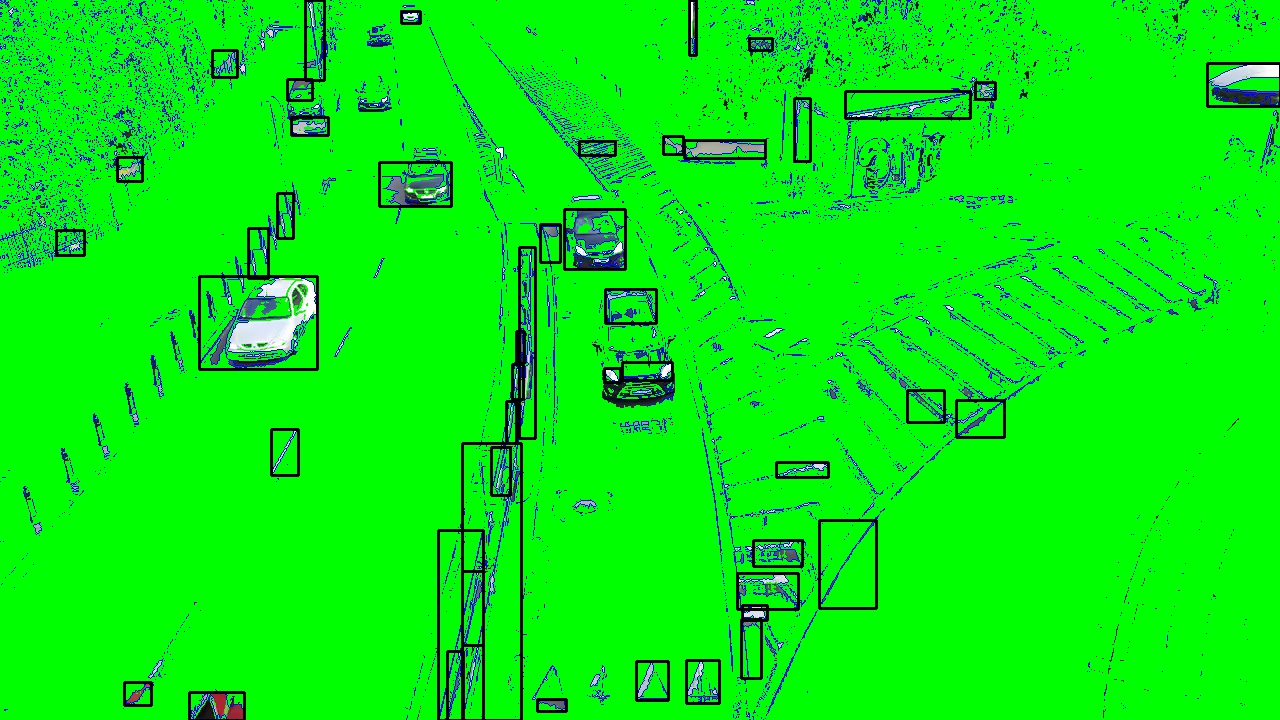
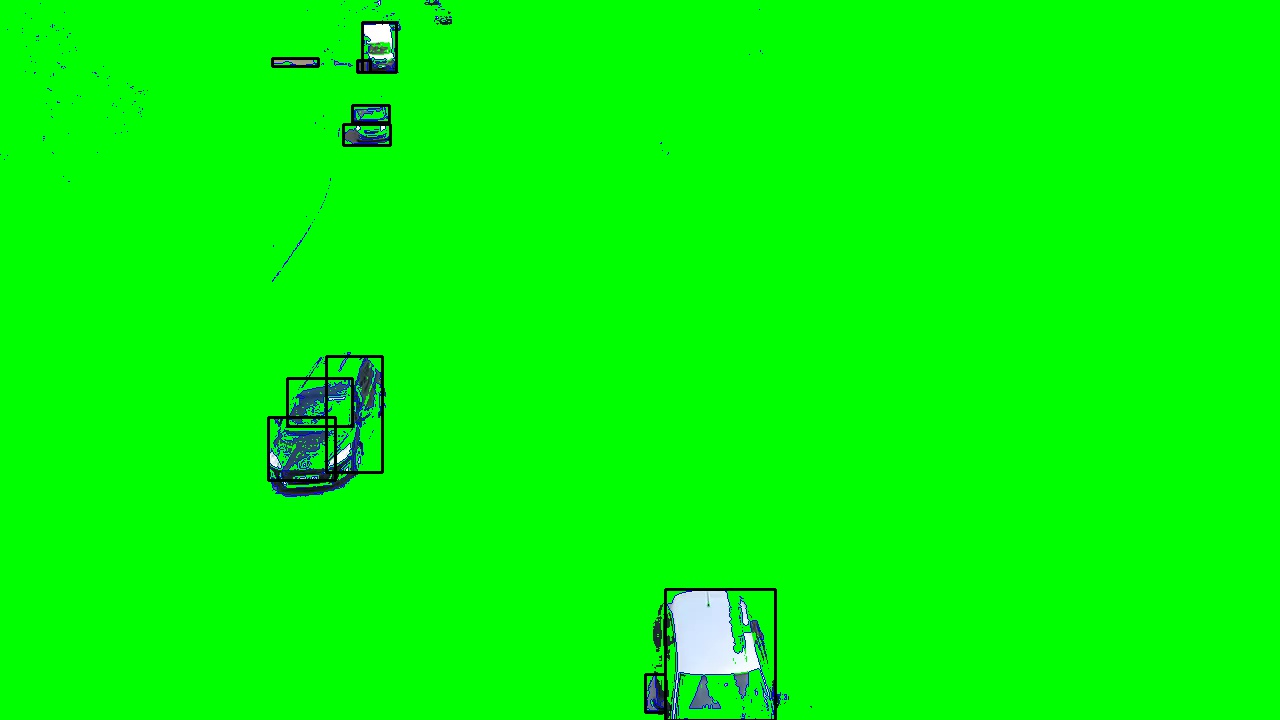
Adding static_background.jpg. Discovered that using video from 0:15 to end gives better results.

diff --git a/project.py b/project.py
@@ -90,8 +90,8 @@ video = 'traffic.mp4'
 # Open video file
 cap = cv2.VideoCapture(video)
 # Calculate the mean frame for given seconds
-mean_frame = average(cap, 6)
-# Close the video feed
+mean_frame = average(cap, 3)
+# Close the video feed0
 cap.release()
 
 # Re-open the video file
